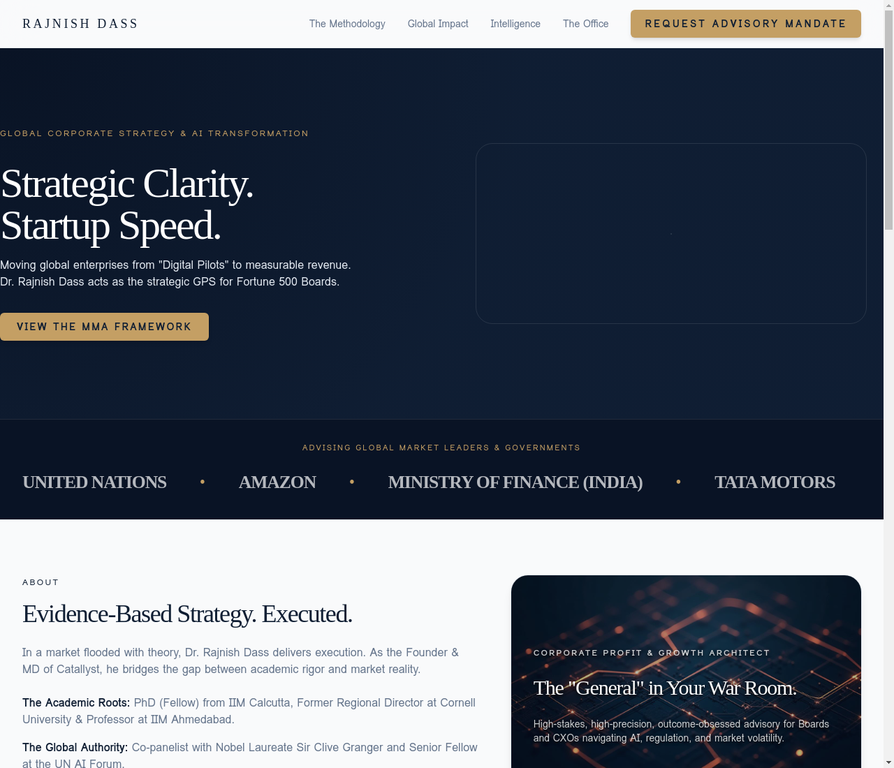
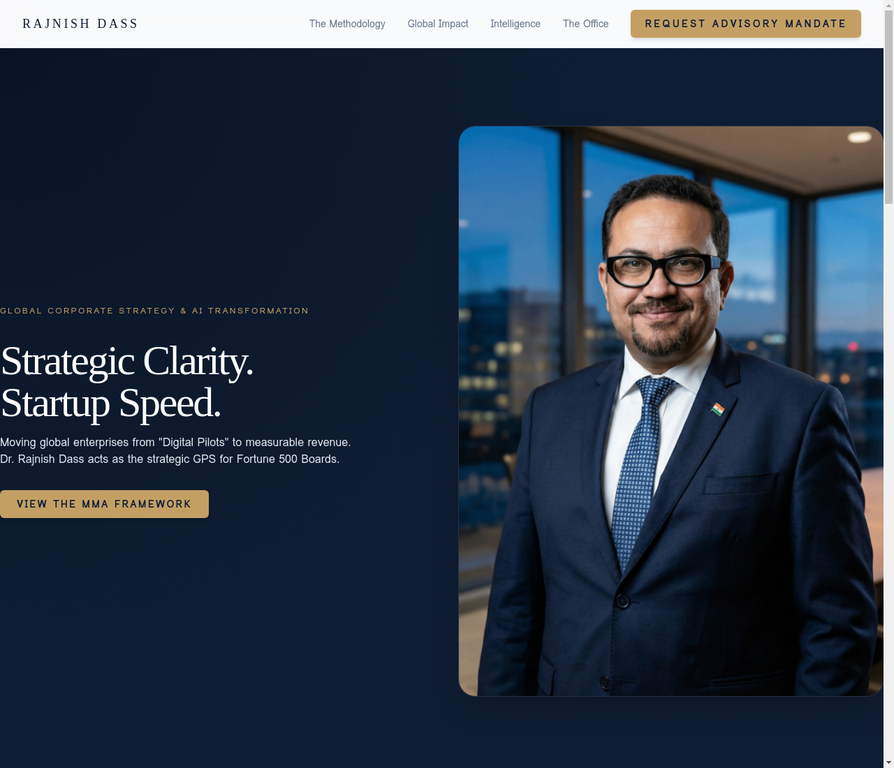
Update xulr21 entry with privacy-friendly name and new screenshot
- Changed name from 'Dr. Rajnish Dass' to 'B2B Strategy Executive'
- Updated description to be generic without mentioning specific names
- Updated screenshot to show executive photo after page animation

diff --git a/src/pages/WebInfrastructure.tsx b/src/pages/WebInfrastructure.tsx
@@ -27,12 +27,12 @@ const WEBSITES = [
   },
   {
     id: 'xulr21',
-    name: 'Dr. Rajnish Dass',
+    name: 'B2B Strategy Executive',
     url: 'https://www.xulr21.rest',
     image: '/website-xulr21.webp',
-    description: 'Executive personal brand website for a global corporate strategy advisor. Features the MMA Framework, case studies, and advisory mandate system.',
+    description: 'Executive personal brand website for a Managing Director of a global B2B consulting firm. Features strategic frameworks, government advisory mandates, and Fortune 500 case studies with a premium dark theme.',
     techStack: ['React', 'TypeScript', 'TailwindCSS', 'Shadcn/UI'],
-    highlights: ['99/100 Performance Score', 'Interactive Framework Tabs', 'Professional Authority Design'],
+    highlights: ['99/100 Performance Score', 'Interactive Framework Tabs', 'Premium Executive Aesthetic'],
     category: 'Personal Brand / Executive'
   },
   {
